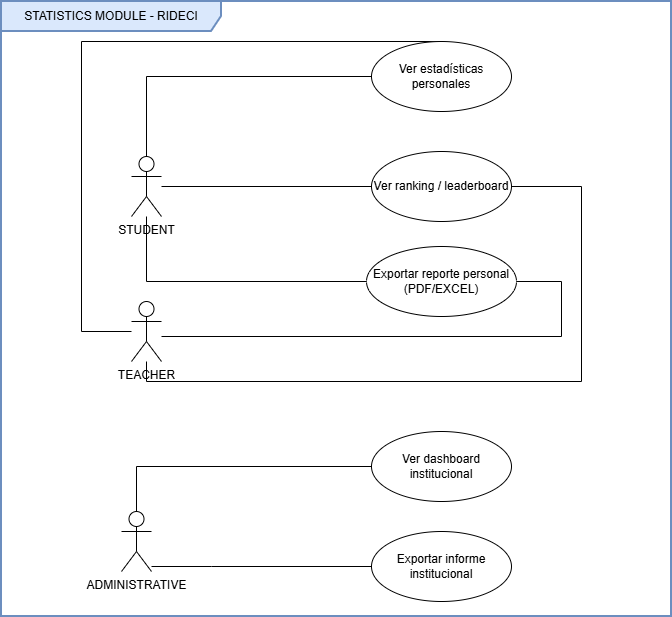
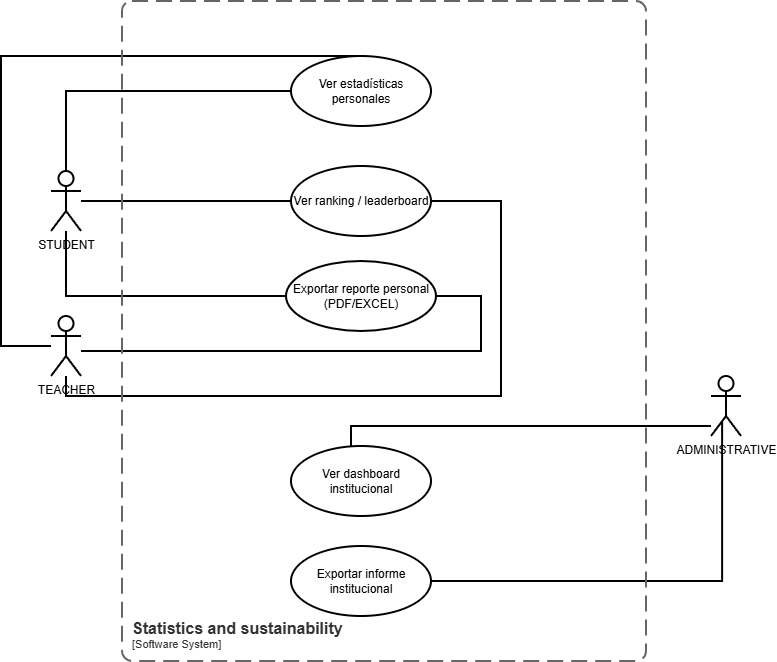
Docs: refactorización y mejora del README

diff --git a/README.md b/README.md
@@ -26,6 +26,15 @@ The Stats & Sustainability module follows an **unacoupled Hexagonal (Clean) Arch
 * **🧠 Domain (Core)**: Contains business rules and statistic calculation logic (CO2 impact, sustainability scores).
 * **🎯 Ports (Interfaces)**: Defines contracts for external communications.
 * **🔌 Adapters (Infrastructure)**: Implementations of ports including Redis caching, MongoDB persistence, and FastAPI controllers.
+---
+
+## 🌟 Module Context
+
+This diagram illustrates how our module connects to the rest of the platform. Essentially, we take trip and user data from other microservices, process it to obtain sustainability metrics, and deliver it in a user-friendly way for both administrators and end users. We are the analytics engine that transforms raw transportation data into environmental value.
+
+![Context Diagram](./docs/diagrams/DiagramaContexto.png)
+
+---
 
 ## 📂 Clean - Hexagonal Structure
 ```
